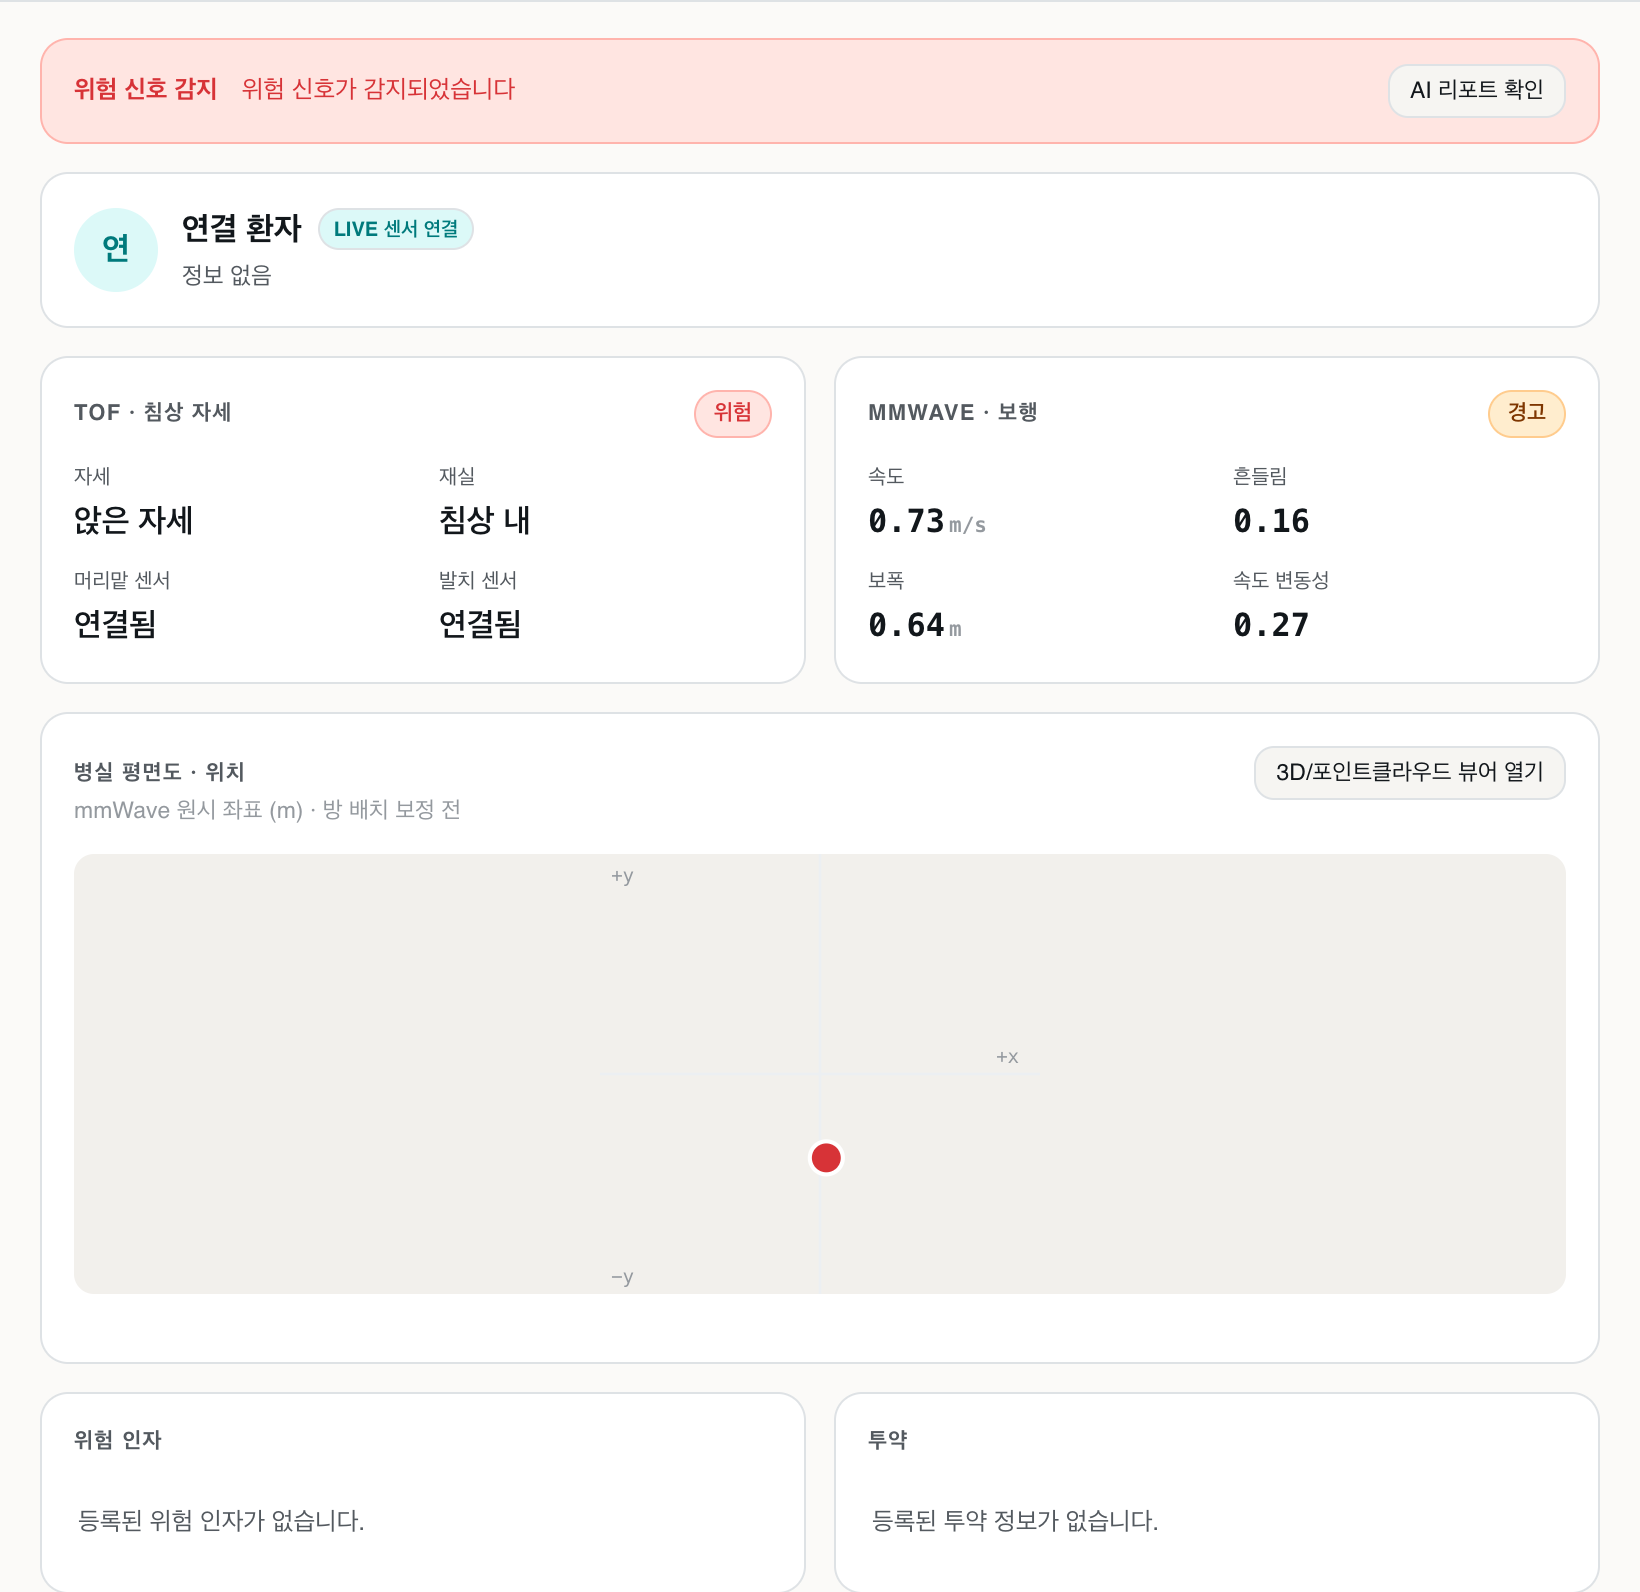
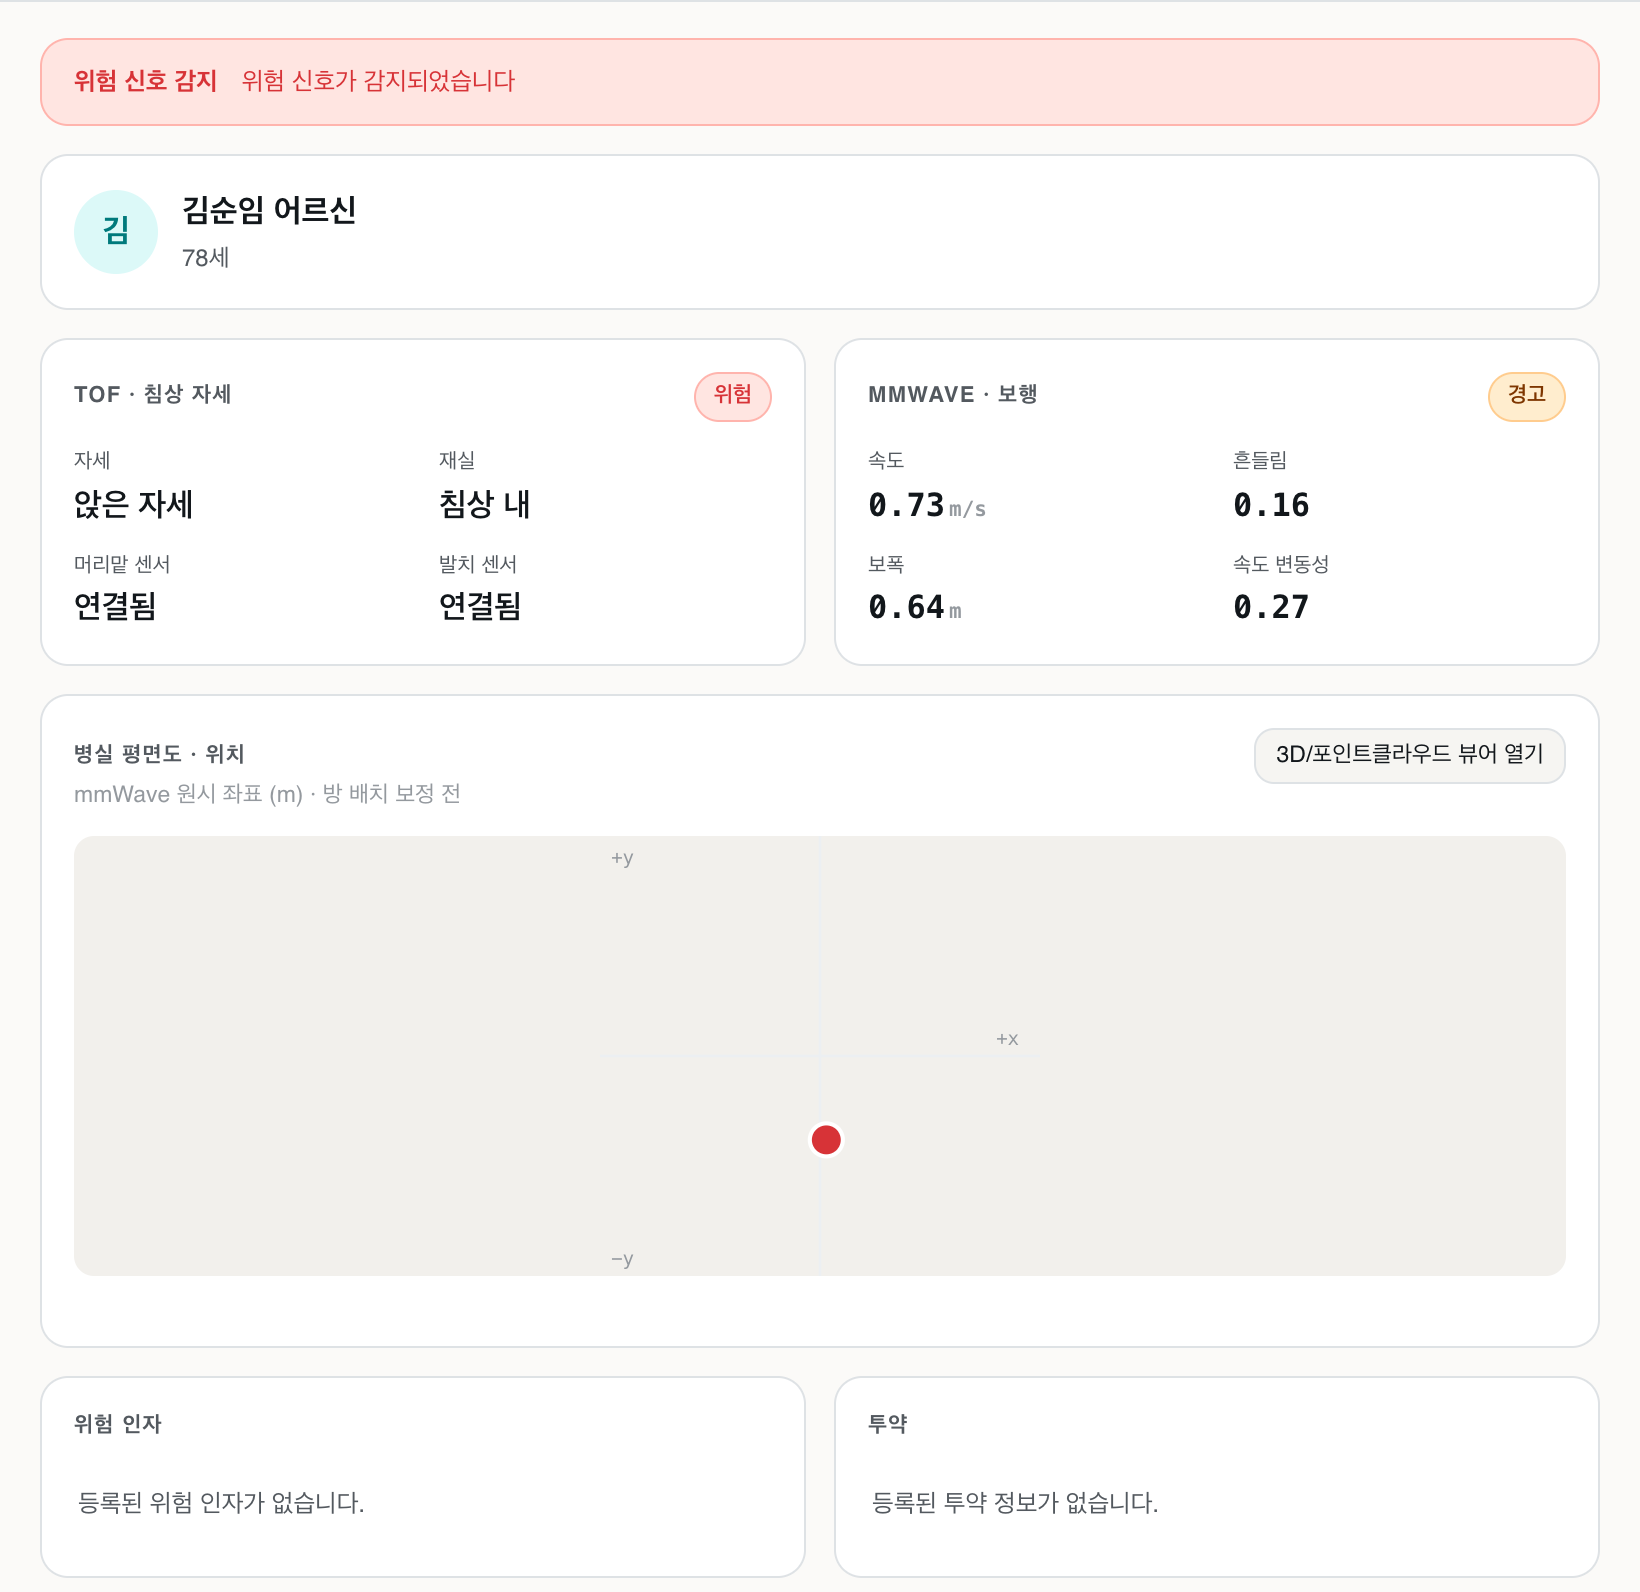
10번 간호사 대시보드 환자 정보 및 표시 문구 정리

diff --git a/notification-screens-sources.md b/notification-screens-sources.md
@@ -2,7 +2,7 @@
 
 - UI: https://github.com/b-hyoung/Majubom/blob/main/site/index.html
 - 스타일/렌더링: site/dashboard-assets/dashboard.css, dashboard.js
-- 간호사 화면: site/tests/dashboard.spec.cjs의 installMockApi 테스트 fixture로 UI 실행. 실센서 연결/실제 환자 데이터가 아니다. UI의 LIVE 배지는 테스트 fixture가 재현하는 상태다.
+- 간호사 화면: site/tests/dashboard.spec.cjs의 installMockApi 테스트 fixture로 UI 실행. 실센서 연결/실제 환자 데이터가 아니다. 시연영상과 일치하도록 표시 이름·나이를 김순임 어르신 · 78세로 설정했으며, 발표용 캡처에서는 AI 리포트 확인 버튼과 LIVE 센서 연결 배지를 숨겼다. 센서 수치는 기존 테스트 fixture를 유지한다.
 - 리포트 화면: server/reports/2026-08-29.json의 structured_facts를 기존 리포트 모달의 현재_상태, 최근_변화, 보행_변화, 추가_관찰이_필요한_항목, 데이터_신뢰도_설명 필드에 대응시켜 표시했다.
 - 원본 JSON은 합성 데이터임을 명시하며 ai_narrative는 null이다. 따라서 AI가 실제로 생성한 리포트 또는 보호자 전용 구현 완료 화면이라는 주장은 하지 않는다.
 - 위험점수/신뢰도는 리포트 캡처에서 생성하지 않고 생략했다.
